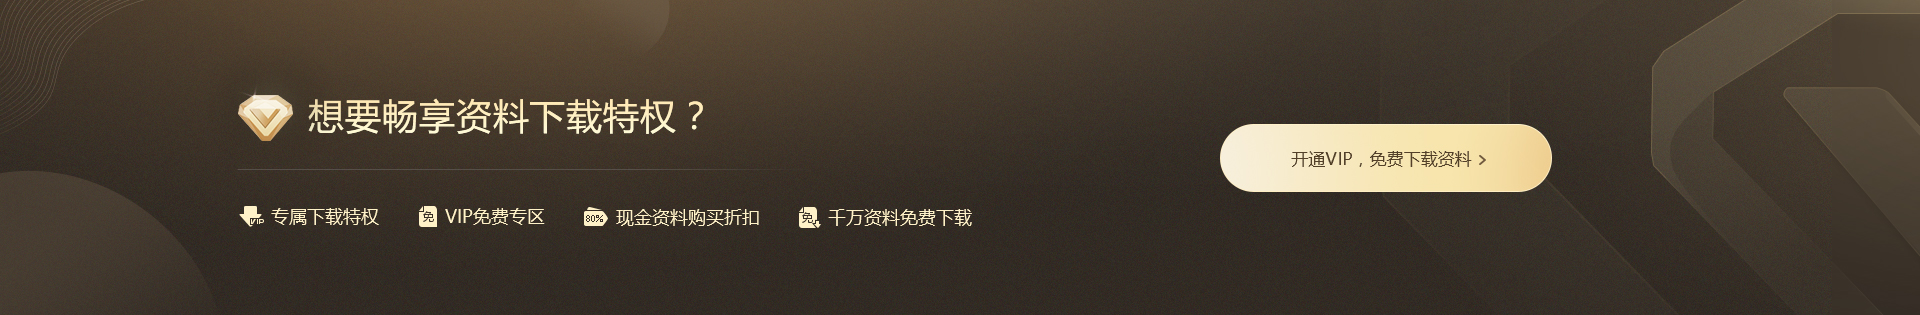
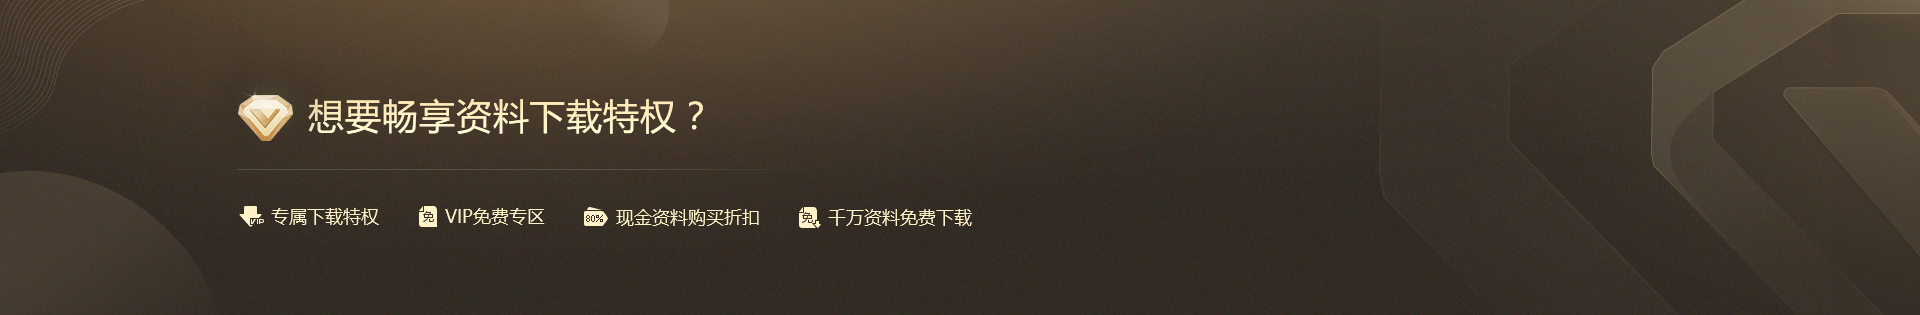
修改跳转vip的图片

Changed region(s): [[0.625, 0.3714, 0.8125, 0.6286]]

diff --git a/public/stylesheets/special/ishare_special.css b/public/stylesheets/special/ishare_special.css
@@ -1,1 +1,103 @@
-html,body{background:#f4f4f4;zoom:1;height:100%;width:100%}.special-bottom-bar{width:100%}.special-bottom-bar .open-vip{display:block;width:100%;height:315px;cursor:pointer}.special-bottom-bar .open-vip img{width:100%}.special-bottom-bar .hot-spot-search{width:1256px;margin:30px auto;margin-top:50px}.special-bottom-bar .hot-spot-search .title{margin-left:28px;height:22px;line-height:22px}.special-bottom-bar .hot-spot-search .title .title-left{font-size:22px}.special-bottom-bar .hot-spot-search .title .title-right{float:right;margin-right:28px;position:relative;cursor:pointer}.special-bottom-bar .hot-spot-search .title .title-right .icon{position:absolute;right:50px;top:3px;width:18px;height:16px}.special-bottom-bar .hot-spot-search .hot-list{margin-top:6px;height:80px}.special-bottom-bar .hot-spot-search .hot-list .hot-items{float:left;width:223px;margin-top:16px;margin-left:28px;font-size:14px;overflow:hidden;white-space:nowrap;text-overflow:ellipsis}.special-bottom-bar .adv-position{width:1200px;height:140px;margin:0 auto;margin-top:37px}.office-footer{font-size:13px;color:#666666;margin-top:32px!important}.office-footer .footer{padding:22px 0 26px;padding-top:0px;padding-bottom:76px}.office-footer .footer .footer-nav{height:26px;line-height:26px;font-size:18px;padding-left:10px}.office-footer .footer .footer-nav a{margin-right:20px;font-size:14px;color:#666666}.office-footer .footer .copy-txt{margin-top:16px;padding-left:10px;font-size:12px;line-height:18px}.user-info{margin-left:10px}/*# sourceMappingURL=../stylesheets/special/ishare_special.css.map */
+html,
+body {
+  background: #f4f4f4;
+  zoom: 1;
+  height: 100%;
+  width: 100%;
+}
+.special-bottom-bar {
+  width: 100%;
+}
+.special-bottom-bar .open-vip {
+  display: block;
+  width: 100%;
+  height: 315px;
+  cursor: pointer;
+  position: relative;
+}
+.special-bottom-bar .open-vip .vip-baseimg {
+  width: 100%;
+}
+.special-bottom-bar .open-vip .vip-btn {
+  position: absolute;
+  top: 50%;
+  right: 368px;
+  transform: translate(0, -50%);
+  width: 332px;
+}
+.special-bottom-bar .hot-spot-search {
+  width: 1256px;
+  margin: 30px auto;
+  margin-top: 50px;
+}
+.special-bottom-bar .hot-spot-search .title {
+  margin-left: 28px;
+  height: 22px;
+  line-height: 22px;
+}
+.special-bottom-bar .hot-spot-search .title .title-left {
+  font-size: 22px;
+}
+.special-bottom-bar .hot-spot-search .title .title-right {
+  float: right;
+  margin-right: 28px;
+  position: relative;
+  cursor: pointer;
+}
+.special-bottom-bar .hot-spot-search .title .title-right .icon {
+  position: absolute;
+  right: 50px;
+  top: 3px;
+  width: 18px;
+  height: 16px;
+}
+.special-bottom-bar .hot-spot-search .hot-list {
+  margin-top: 6px;
+  height: 80px;
+}
+.special-bottom-bar .hot-spot-search .hot-list .hot-items {
+  float: left;
+  width: 223px;
+  margin-top: 16px;
+  margin-left: 28px;
+  font-size: 14px;
+  overflow: hidden;
+  white-space: nowrap;
+  text-overflow: ellipsis;
+}
+.special-bottom-bar .adv-position {
+  width: 1200px;
+  height: 140px;
+  margin: 0 auto;
+  margin-top: 37px;
+}
+.office-footer {
+  font-size: 13px;
+  color: #666666;
+  margin-top: 32px!important;
+}
+.office-footer .footer {
+  padding: 22px 0 26px;
+  padding-top: 0px;
+  padding-bottom: 76px;
+}
+.office-footer .footer .footer-nav {
+  height: 26px;
+  line-height: 26px;
+  font-size: 18px;
+  padding-left: 10px;
+}
+.office-footer .footer .footer-nav a {
+  margin-right: 20px;
+  font-size: 14px;
+  color: #666666;
+}
+.office-footer .footer .copy-txt {
+  margin-top: 16px;
+  padding-left: 10px;
+  font-size: 12px;
+  line-height: 18px;
+}
+.user-info {
+  margin-left: 10px;
+}

diff --git a/views/special/bottomBar.html b/views/special/bottomBar.html
@@ -1,6 +1,7 @@
 <div class="special-bottom-bar">
     <a href="/node/rights/vip.html" class="open-vip" target="_blank">
-        <img src="{{cdnUrl}}/images/special/open-vip.jpg">
+        <img  class="vip-baseimg" src="{{cdnUrl}}/images/special/open-vip.jpg">
+        <img  class="vip-btn" src="{{cdnUrl}}/images/special/vip-btn.png">
     </a>
     {% if results.specialTopic.slice(10)>0 %}
     <div class="hot-spot-search">

diff --git a/public/stylesheets/special/ishare_special.less b/public/stylesheets/special/ishare_special.less
@@ -13,8 +13,16 @@ body {
        width: 100%;
        height: 315px;
        cursor: pointer;
-       img{
-         width:100%;
+       position: relative;
+       .vip-baseimg{
+           width: 100%;
+       }
+       .vip-btn{
+           position: absolute;
+           top:50%;
+           right: 368px;
+           transform: translate(0,-50%);
+           width:332px;
        }
    }
    .hot-spot-search{
